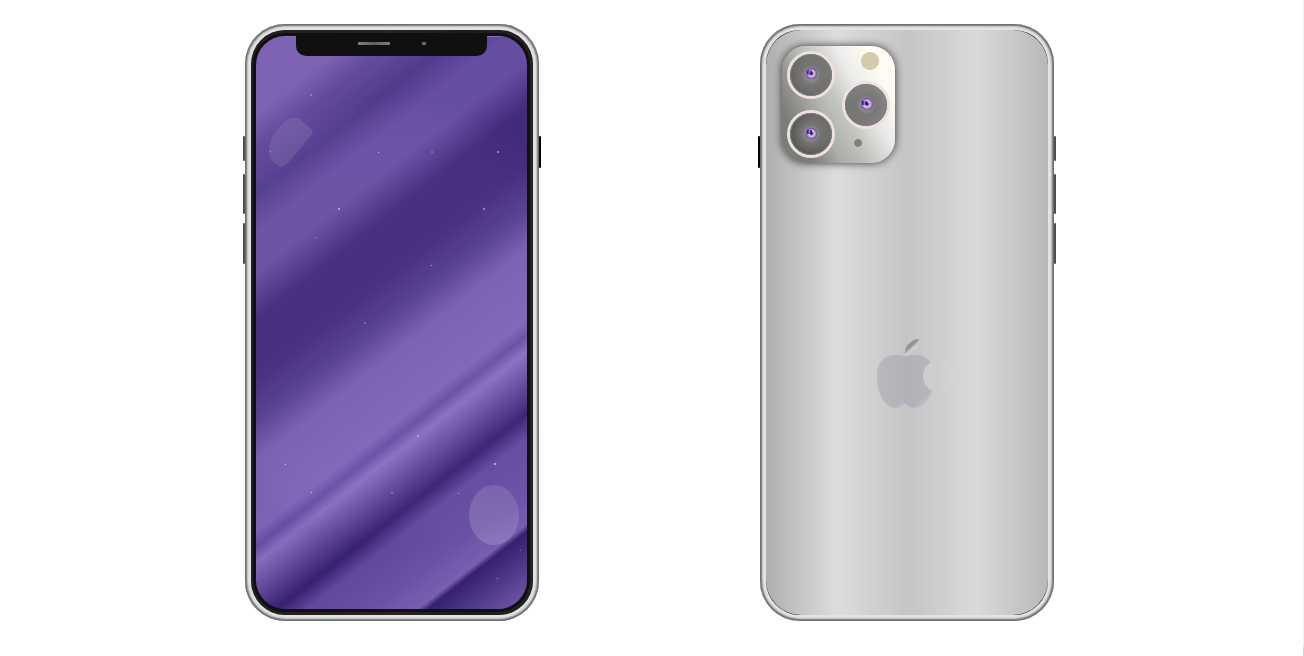
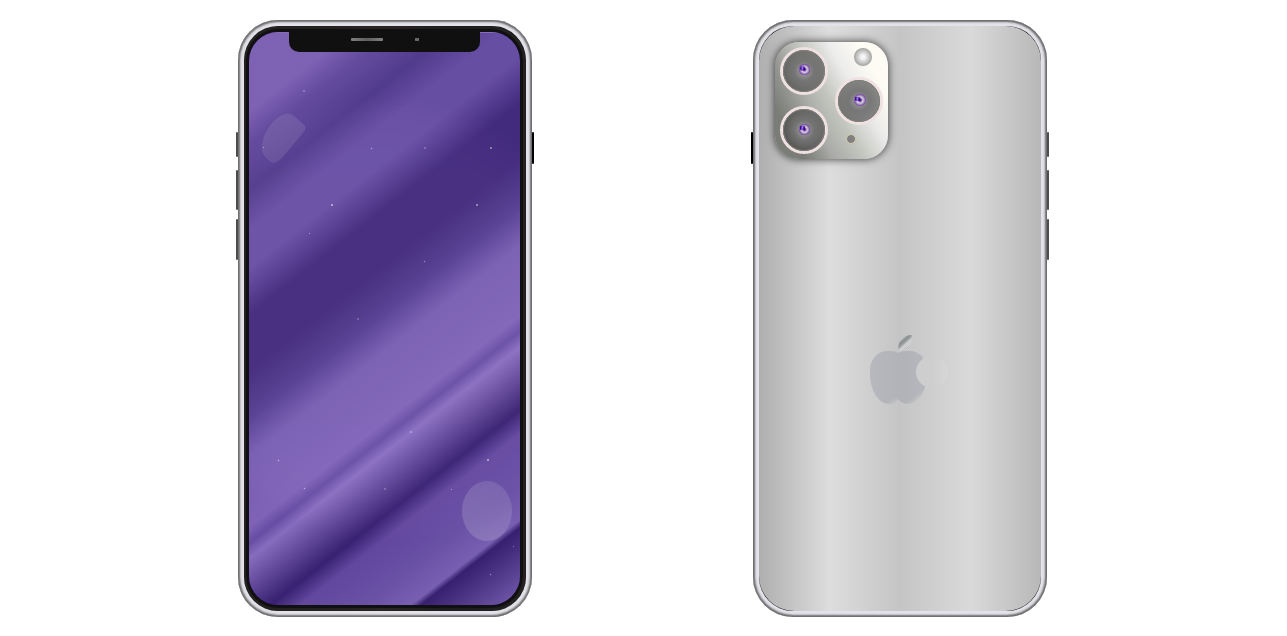
background-gradient, image

diff --git a/style.css b/style.css
@@ -6,6 +6,7 @@
   display: flex;
   justify-content: center;
   align-items: center;
+  color: #808080da;
 }
 .iphone-container {
   display: flex;
@@ -410,7 +411,14 @@
   position: absolute;
   top: 0.4rem;
   right: 1rem;
-  background-color: #d6c8ad;
+  background: rgb(128, 128, 128);
+  background: radial-gradient(
+    circle,
+    rgba(244, 245, 248, 0.867121848739496) 0%,
+    rgba(244, 245, 248, 0.867121848739496) 15%,
+    rgba(128, 128, 128, 0.7) 70%,
+    rgba(244, 245, 248, 0.867121848739496) 100%
+  );
 }
 .smaller-cam {
   width: 0.5rem;
